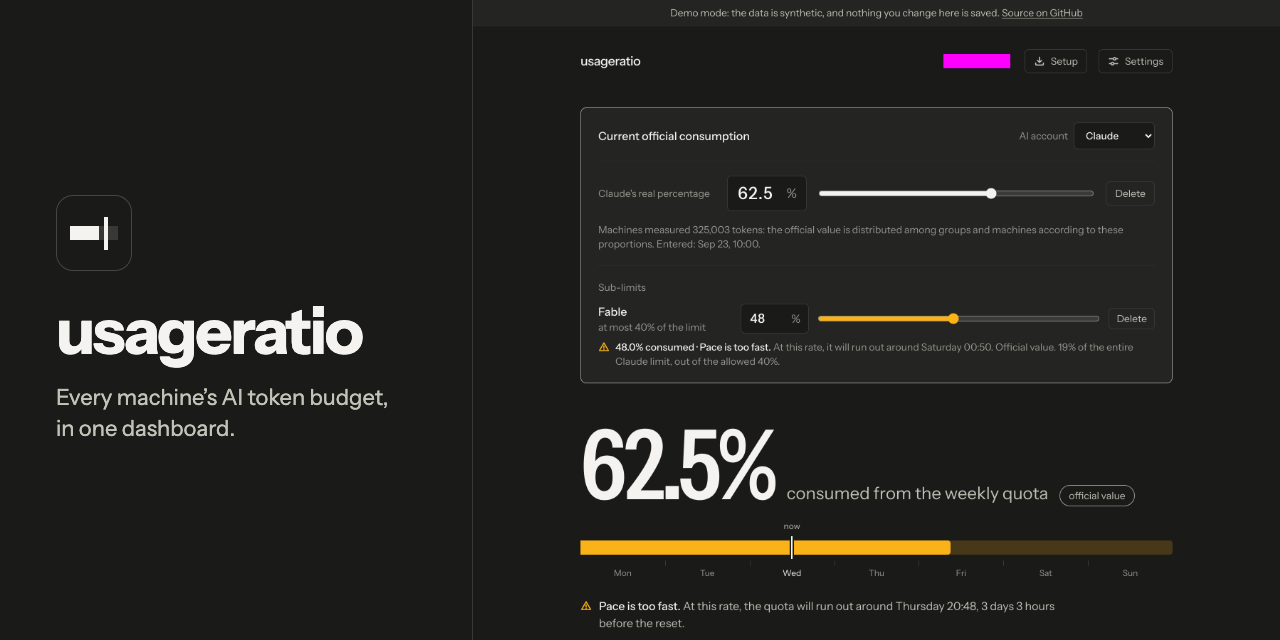
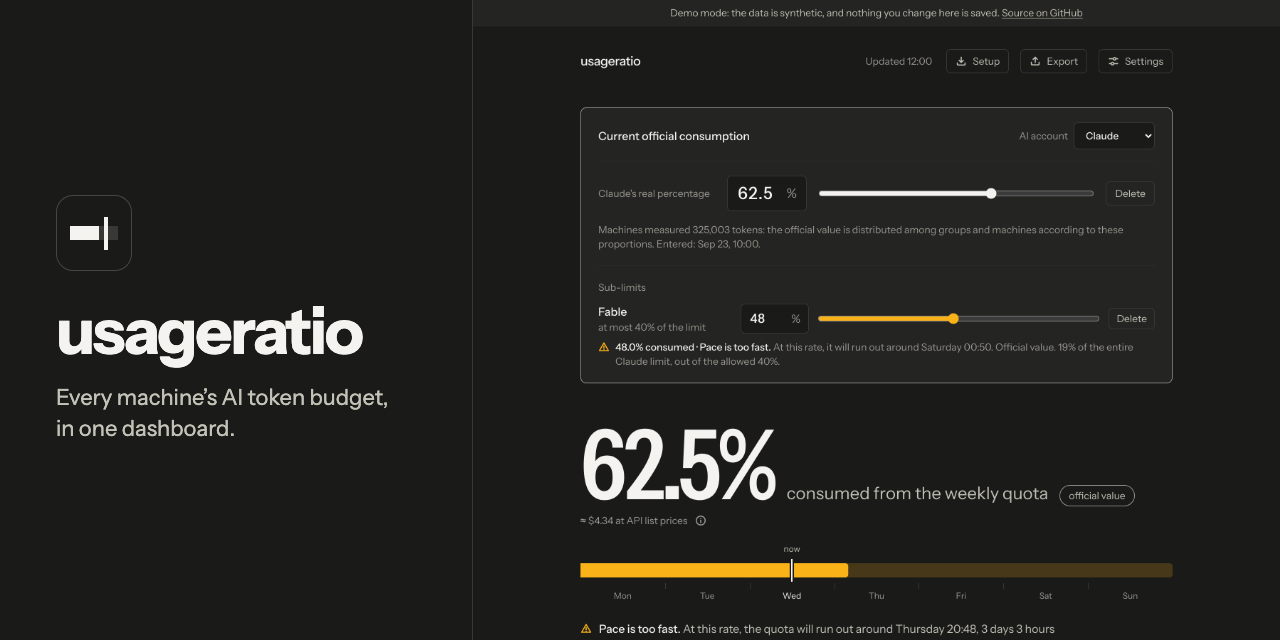
Merge branch 'w6/readme' into feat/m4-m5
The README rewritten as the project's front page: logo, hero screenshot, a 30-second demo, how it works, features, deploy button with the Upstash integration, client matrix, configuration, security, development and docs index.

Squashed:
- docs(assets): regenerate the screenshots and the social preview from the final UI
- docs(readme): rewrite as the project's open-source showcase

Changed region(s): [[0.4375, 0.8125, 0.9375, 0.9062], [0.4688, 0.9375, 0.8125, 1.0], [0.6875, 0.0625, 0.8438, 0.125]]

diff --git a/README.md b/README.md
@@ -1,75 +1,224 @@
-# usageratio
+<p align="center">
+  <picture>
+    <source media="(prefers-color-scheme: dark)" srcset="docs/assets/logo-dark.svg">
+    <source media="(prefers-color-scheme: light)" srcset="docs/assets/logo-light.svg">
+    <img src="docs/assets/logo-dark.svg" alt="usageratio" height="60">
+  </picture>
+</p>
 
-[![CI](https://github.com/snktibor/usageratio/actions/workflows/ci.yml/badge.svg)](https://github.com/snktibor/usageratio/actions/workflows/ci.yml)
-[![License](https://img.shields.io/github/license/snktibor/usageratio)](LICENSE)
-[![Deployed on Vercel](https://img.shields.io/badge/Deployed%20on-Vercel-black?logo=vercel&logoColor=white)](https://vercel.com)
-[![Built with TypeScript](https://img.shields.io/badge/Built%20with-TypeScript-3178C6?logo=typescript&logoColor=white)](https://www.typescriptlang.org/)
+<p align="center">
+  One dashboard for the token budget every AI coding agent is quietly spending, on every machine you own.
+</p>
 
-**Track your AI usage across every machine, in one dashboard.**
+<p align="center">
+  <a href="https://github.com/snktibor/usageratio/actions/workflows/ci.yml"><img src="https://github.com/snktibor/usageratio/actions/workflows/ci.yml/badge.svg" alt="CI"></a>
+  <a href="https://github.com/snktibor/usageratio/actions/workflows/codeql.yml"><img src="https://github.com/snktibor/usageratio/actions/workflows/codeql.yml/badge.svg" alt="CodeQL"></a>
+  <a href="LICENSE"><img src="https://img.shields.io/github/license/snktibor/usageratio" alt="License"></a>
+  <a href="https://github.com/snktibor/usageratio/releases"><img src="https://img.shields.io/github/v/release/snktibor/usageratio" alt="Latest release"></a>
+  <a href=".nvmrc"><img src="https://img.shields.io/badge/node-24-339933?logo=node.js&logoColor=white" alt="Node version"></a>
+  <a href="CONTRIBUTING.md"><img src="https://img.shields.io/badge/PRs-welcome-brightgreen.svg" alt="PRs welcome"></a>
+</p>
 
-A lightweight, self-hosted tracker for weekly or monthly token budgets across multiple AI providers
-or accounts — Claude, DeepSeek, OpenAI, or anything else [`ccusage`](https://github.com/ryoppippi/ccusage)
-can read. Every machine reports once an hour; a PIN-protected dashboard aggregates it all, live.
+<p align="center">
+  <a href="docs/assets/dashboard-full.png">
+    <img src="docs/assets/dashboard.png" alt="usageratio dashboard showing Claude's official-percentage restatement, a Fable sub-limit, the weekly burn-down chart, and an opt-in API-list-price cost estimate" width="820">
+  </a>
+</p>
 
+## What it is
+
+usageratio is a self-hosted dashboard for AI coding-agent token budgets. A small client runs hourly
+on every machine you use — a MacBook, a desktop, a work laptop — reads [`ccusage`](https://github.com/ryoppippi/ccusage)'s
+local usage data (Claude Code, Codex/OpenAI, DeepSeek, Gemini, or anything else `ccusage` can parse),
+and reports a snapshot to one Next.js app. A single PIN-protected dashboard then shows the weekly or
+monthly burn per provider, per group, and per machine, with the provider's own official percentage
+laid over the measured proportions.
+
+The problem it solves: a subscription quota is shared across every machine that uses it, but each
+provider's own dashboard only shows one number for the account — not which machine or which project
+spent it. usageratio adds that missing dimension without asking any provider for an API it doesn't
+have.
+
+## Try it in 30 seconds
+
+```bash
+git clone https://github.com/snktibor/usageratio.git
+cd usageratio
+npm ci
+npm run dev:demo
 ```
- Mac (bash + cron) ──┐
- Windows 1 (PS)  ────┼─ POST /api/usage ─▶ Next.js (Vercel) ─▶ Upstash Redis ◀─ Dashboard (PIN)
- Windows 2 (PS)  ────┘   Bearer token       app/api/usage        ("Vercel KV")     app/page.tsx
+
+Open [`http://localhost:3000/en`](http://localhost:3000/en/) — a synthetic multi-machine, multi-provider
+dataset, no Redis, no PIN, and every write is refused. Good enough to see the whole dashboard, the
+charts, and the Setup page before deploying anything.
+
+## How it works
+
+```mermaid
+flowchart LR
+    mac["macOS / Linux client<br/>cron, hourly"] -->|"ccusage snapshot"| ingest["POST /api/usage<br/>Bearer token"]
+    win["Windows client<br/>Task Scheduler, hourly"] -->|"ccusage snapshot"| ingest
+    ingest --> route["Next.js route<br/>app/api/usage"]
+    route --> redis[("Upstash Redis<br/>usage:events:provider:group")]
+    dash["Dashboard<br/>PIN session"] --> redis
+    route -. "threshold crossed" .-> hook(["Slack / Discord / webhook"])
 ```
+
+Each machine's client sums `ccusage`'s local data for the current cycle and POSTs a snapshot once an
+hour with a bearer token. The route validates and rate-limits it, then writes it to a Redis sorted
+set keyed by provider and group (`lib/redis-keys.ts` documents the full layout). The dashboard reads
+the same store behind a PIN session; a threshold alert fires a webhook the same way.
 
 ## Features
 
-- **Multi-provider, multi-account** — Claude, DeepSeek, OpenAI, or any custom provider id, tracked side by side.
-- **Multi-machine** — every Mac, Windows (and Linux) box reports hourly with a tiny, silent client.
-- **Weekly or monthly budgets**, with per-account sub-limits (e.g. a model-specific cap within Claude).
-- **Groups** (Work vs. Personal, or however you split it), with an automatic per-group percentage breakdown.
-- **Charts** — budget burn-down over time, and per-model usage, both broken down by group.
-- **PIN-protected dashboard**, an encrypted token vault, and a full audit log — see [Security](docs/REFERENCE.md#security).
-- **One-click client install** — the dashboard generates a ready-to-run ZIP or copy-paste package for macOS/Windows.
-- **Self-hosted on Vercel + Upstash Redis** — the free tier is plenty for a handful of machines.
+| | |
+| --- | --- |
+| **Multi-provider, multi-machine** | Claude, Codex/OpenAI, DeepSeek, Gemini, or any id `ccusage` produces, tracked per machine with a health state (active / late / inactive / manual). |
+| **Groups with exclusions** | Machines are grouped (Work, Personal, …); a group can be excluded from counting toward specific accounts. |
+| **Sub-limits** | A separately measured limit inside a provider (e.g. a model family within Claude), shown as its own slider under the account's. |
+| **Official-percentage restatement** | Enter the provider's own official usage percentage; it's redistributed across groups and machines by their measured proportions. |
+| **Burn-down and per-model charts** | Hand-written, keyboard-accessible SVG — no chart library — with an "as a table" fallback for every chart. |
+| **Previous-cycles history** | A bar per past cycle, with the same official-percentage detail on hover. |
+| **CSV / JSON export** | The current or a previous cycle's raw reports, filterable by provider. |
+| **Threshold alerts** | A webhook per crossed percentage, formatted for Slack or Discord, or as plain JSON for anything else. |
+| **Opt-in cost estimate** | An approximate USD figure from `ccusage`'s own API list prices — off by default, and never a substitute for a subscription's real billing. |
+| **One-click client install** | A ready-to-run ZIP or copy-paste package for macOS, Linux, or Windows, plus an install-free one-shot command for a single report. |
+| **Per-machine revocable tokens** | An alternative to the shared bearer token that can be issued and revoked per machine from the settings panel. |
+| **Machine, group, and provider management** | Rename, recolor, re-group, or remove any of them from the dashboard, without touching a client. |
+| **PIN or passphrase login** | 5–64 characters, constant-time comparison, escalating lockout on repeated failures, and sudo re-confirmation before revealing a stored secret. |
+| **Nonce CSP and security headers** | A strict, nonce-based Content-Security-Policy plus COOP, CORP, and HSTS, set for every request. |
+| **Encrypted API-token vault** | The copy of the ingest token kept for the Setup page's *Copy token* button is AES-256-GCM sealed, with a full reveal/rotate audit trail. |
+| **EN / HU / DE** | Full locale parity — every key, every ICU placeholder — is enforced by a test. |
+| **Demo mode** | The whole app on an in-memory store with a synthetic dataset — no Redis, no PIN, read-only. |
+| **Vercel + Upstash, or Docker** | Deploy to Vercel's free tier, or self-host the same image anywhere with Docker Compose. |
+
+<table>
+<tr>
+<td width="400">
+<a href="docs/assets/groups-machines.png"><img src="docs/assets/groups-machines.png" width="380" alt="Groups and machines table: token share, percentage of quota, cost, and health per group and per machine"></a>
+<br><sub>Groups and machines, with per-row cost and health.</sub>
+</td>
+<td width="400">
+<a href="docs/assets/settings.png"><img src="docs/assets/settings.png" width="380" alt="Settings panel: AI accounts, weekly or monthly budget type, and a Fable sub-limit under Claude"></a>
+<br><sub>Settings: accounts, budget type, and sub-limits.</sub>
+</td>
+</tr>
+<tr>
+<td width="400">
+<a href="docs/assets/setup.png"><img src="docs/assets/setup.png" width="380" alt="Setup page: choose macOS, Linux, or Windows and automatic or manual mode, then download a ZIP, copy the files, or use the one-time upload command"></a>
+<br><sub>Setup: pick a system and mode, install a client.</sub>
+</td>
+<td width="400">
+<a href="docs/assets/mobile.png"><img src="docs/assets/mobile.png" width="150" alt="The full dashboard on a phone-width viewport, laid out in a single responsive column"></a>
+<br><sub>The full dashboard, responsive down to a phone.</sub>
+</td>
+</tr>
+</table>
 
 ## Quick start
 
-1. **Deploy:**
+**Deploy to Vercel:**
 
-   [![Deploy with Vercel](https://vercel.com/button)](https://vercel.com/new/clone?repository-url=https%3A%2F%2Fgithub.com%2Fsnktibor%2Fusageratio&env=USAGE_API_TOKEN,DASHBOARD_PIN&envDescription=Required%20secrets%20%E2%80%94%20generate%20with%20openssl%2C%20see%20docs%2FREFERENCE.md&envLink=https%3A%2F%2Fgithub.com%2Fsnktibor%2Fusageratio%2Fblob%2Fmain%2Fdocs%2FREFERENCE.md%23deploying-to-vercel&project-name=usageratio&repository-name=usageratio)
+[![Deploy with Vercel](https://vercel.com/button)](https://vercel.com/new/clone?repository-url=https%3A%2F%2Fgithub.com%2Fsnktibor%2Fusageratio&env=USAGE_API_TOKEN%2CDASHBOARD_PIN&envDescription=Required%20secrets%3A%20generate%20with%20openssl%2C%20see%20docs%2Fgetting-started.md&envLink=https%3A%2F%2Fgithub.com%2Fsnktibor%2Fusageratio%2Fblob%2Fmain%2Fdocs%2Fgetting-started.md&project-name=usageratio&repository-name=usageratio&stores=%5B%7B%22type%22%3A%22integration%22%2C%22protocol%22%3A%22storage%22%2C%22productSlug%22%3A%22upstash-kv%22%2C%22integrationSlug%22%3A%22upstash%22%7D%5D)
 
-   This clones the repo into your own GitHub account and creates the Vercel project, prompting for
-   the two required secrets. You still need to connect an Upstash Redis database afterward (Vercel
-   can't do that part through the button) — full step-by-step guide, including that and adding a
-   custom domain: [docs/REFERENCE.md § Deploying to Vercel](docs/REFERENCE.md#deploying-to-vercel).
-2. **Install a client:** open your deployment, sign in with the PIN, and use the **Setup** page — it
-   generates a ready-to-run package (ZIP, or copy-paste blocks) for macOS or Windows.
-   Command-line install instead: [docs/setup-auto.md](docs/setup-auto.md) ·
-   [docs/setup-manual.md](docs/setup-manual.md).
-3. **Watch the dashboard.** Reports start arriving within the hour; the budget, groups, and charts
-   update live.
+This clones the repo into your own account, prompts for `USAGE_API_TOKEN` and `DASHBOARD_PIN`, and
+provisions an Upstash Redis database through the Vercel Marketplace alongside it. If the button ever
+skips that step (integration availability can change), add **Upstash Redis** from the Vercel
+Marketplace to the project yourself before the first deploy.
 
-## Local development
+Then sign in with the PIN, open **Setup**, and install a client — see
+[**Getting started**](docs/getting-started.md) for the full walkthrough, including the domain and
+Redis-region notes.
+
+Prefer to run it yourself? [**Docker self-hosting**](docs/self-hosting.md) covers the same app behind
+`docker compose up -d`, with an optional bundled Caddy profile for HTTPS.
+
+## Installing a client
+
+Every machine that should report needs one of these. All routes end up running the same
+`clients/shared/` reporting core; only how it's scheduled differs. Full details, flags, and exit
+codes: [**docs/clients.md**](docs/clients.md).
+
+| System | Automatic | Manual | One-shot | Uninstall |
+| --- | --- | --- | --- | --- |
+| **macOS** | Hourly `cron` job, silent | A `sync-tokens` shell alias | One install-free command, sends one report, leaves nothing behind | Remove the `crontab` entry, delete `~/.usageratio` |
+| **Linux** | Hourly `cron` job, silent | A `sync-tokens` shell alias | Same one-shot command | Same as macOS |
+| **Windows** | Hourly Task Scheduler task, silent | A desktop "Sync tokens" shortcut | One install-free PowerShell command | `install-task.ps1 -Uninstall`, delete `%USERPROFILE%\.usageratio` |
+
+Every route is available from the dashboard's **Setup** page (ZIP download or copy-paste blocks), or
+package-free from the command line.
+
+## Configuration
+
+The variables that matter to get running; everything else is documented inline in
+[`.env.example`](.env.example) and in full at [**docs/configuration.md**](docs/configuration.md).
+
+| Variable | Required | Purpose |
+| --- | --- | --- |
+| `USAGE_API_TOKEN` | Yes | Bearer token the clients authenticate with (`openssl rand -hex 32`). |
+| `DASHBOARD_PIN` | Yes | The dashboard's PIN or passphrase, 5–64 characters. |
+| `KV_REST_API_URL` / `KV_REST_API_TOKEN` | Yes | Upstash Redis REST credentials — injected automatically on Vercel. |
+| `TOKEN_ENCRYPTION_KEY` | Optional | AES-256-GCM key so the Setup page can store and copy the API token (`openssl rand -base64 32`). |
+| `CRON_SECRET` | Optional | Bearer token for `GET /api/cron/housekeeping`; required for the daily cleanup to run at all. |
+
+## Security
+
+Login is a constant-time PIN/passphrase check with escalating per-IP lockout, sudo re-confirmation
+before any secret is revealed, and rolling sessions revoked instantly on logout or PIN change.
+Clients authenticate with a constant-time-compared bearer token or an individually revocable
+per-machine token. Every response carries a nonce-based CSP with no inline scripts, plus COOP, CORP,
+and HSTS. The stored copy of the API token is AES-256-GCM encrypted with key-rotation support, and
+every store, update, or reveal of it is written to an audit trail. See
+[**SECURITY.md**](SECURITY.md) for the reporting process and [**docs/security.md**](docs/security.md)
+for the full threat model, including its known limitations.
+
+## Development
 
 ```bash
-npm install
-cp .env.example .env.local      # fill in USAGE_API_TOKEN and DASHBOARD_PIN
-npm run redis:up                # local Redis + Upstash-compatible REST proxy (Docker)
-npm run dev                     # http://localhost:3000
-
-npm test                        # unit tests
-npm run typecheck
-npm run redis:down
+npm ci
+npm run check              # Biome + tsc --noEmit + Vitest (1,015 tests across 64 files)
+npm run coverage            # Vitest with coverage
+npm run build && npm run e2e   # Playwright, against production builds (demo + real modes)
 ```
 
-The manual client can also be tried locally:
-`USAGERATIO_API_URL=http://localhost:3000/api/usage clients/manual/report-usage.sh --providers
-'{"claude":1234,"deepseek":5678}'`.
+The bash/PowerShell clients have their own suites, run in CI but not by `npm run check`: `shellcheck`
+and `bash -n` over `clients/**/*.sh`, and `Invoke-ScriptAnalyzer` plus a Pester suite
+(`clients/tests`) over the PowerShell scripts. See [**CONTRIBUTING.md**](CONTRIBUTING.md) for
+prerequisites and the full walkthrough, and
+[**docs/demo-and-development.md**](docs/demo-and-development.md) for demo mode, seeding a local
+store, and the screenshot suite.
 
 ## Documentation
 
-- [**Technical reference**](docs/REFERENCE.md) — deployment details, the client protocol, every
-  dashboard setting, the full API, the Redis data model, and security.
-- [Automatic client setup](docs/setup-auto.md) / [Manual client setup](docs/setup-manual.md) —
-  command-line install, no ZIP needed.
+- [**docs/README.md**](docs/README.md) — documentation index
+- [Getting started](docs/getting-started.md) — deploying and installing the first client
+- [Clients](docs/clients.md) — every install route, flags, and exit codes
+- [Configuration](docs/configuration.md) — every environment variable
+- [API](docs/api.md) — the ingest and dashboard endpoints
+- [Data model](docs/data-model.md) — the Redis key layout
+- [Security](docs/security.md) — the full threat model
+- [Architecture](docs/architecture.md) — how the pieces fit together
+- [Demo and development](docs/demo-and-development.md) — running and testing locally
+- [Upgrading](docs/upgrading.md) — moving between versions
+- [Self-hosting](docs/self-hosting.md) — running usageratio with Docker instead of Vercel
+
+## Roadmap
+
+- More agents beyond what `ccusage` recognizes out of the box (adding one is three small, tested
+  steps — see [CONTRIBUTING.md](CONTRIBUTING.md)).
+- A light theme; the dashboard is dark-only today.
+- Per-user accounts — today's PIN/passphrase is one shared secret for the whole dashboard.
+- More locales beyond EN/HU/DE.
+
+## Acknowledgements
+
+- [**ccusage**](https://github.com/ryoppippi/ccusage) — the local usage data every client reads.
+- [**Upstash**](https://upstash.com) — the Redis REST API usageratio is built around.
+- [**Vercel**](https://vercel.com) — the reference deployment target.
+- [**next-intl**](https://next-intl.dev) — the i18n library behind EN/HU/DE.
+- **Instrument Sans** — the UI typeface, licensed under the [SIL Open Font License](assets/fonts/OFL.txt).
 
 ## License
 
-Licensed under the GNU General Public License, version 3 or (at your option) any later version —
-see [LICENSE](LICENSE) for the full text.
+Licensed under the GNU General Public License, version 3 or (at your option) any later version.
+Copyright (C) 2026 Tibor Sinka. See [LICENSE](LICENSE) for the full text.
